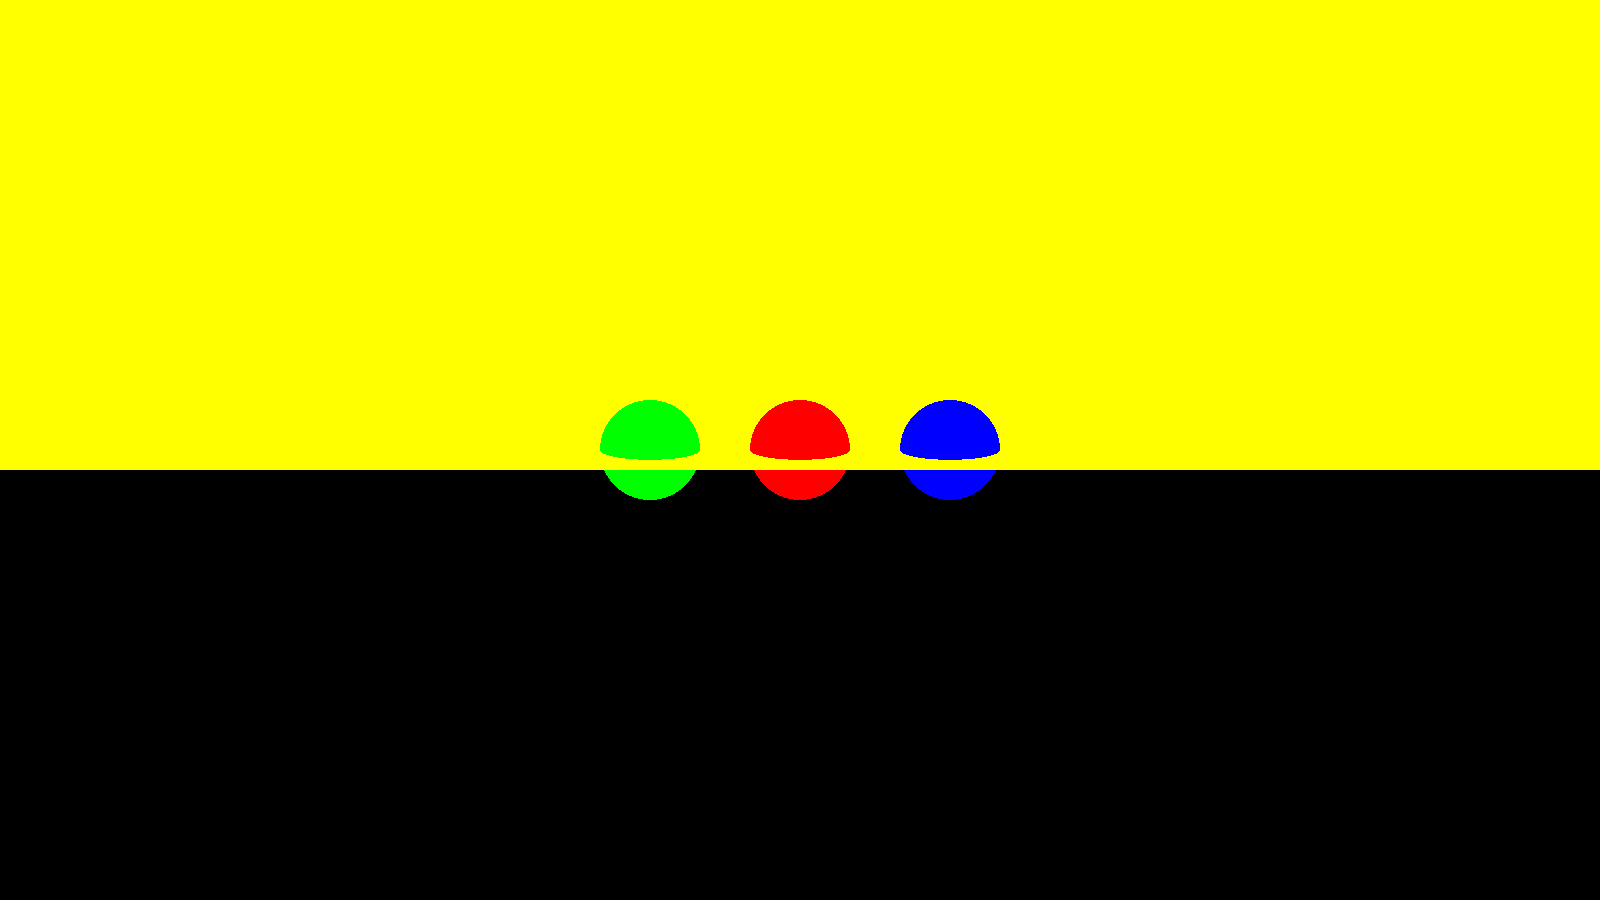
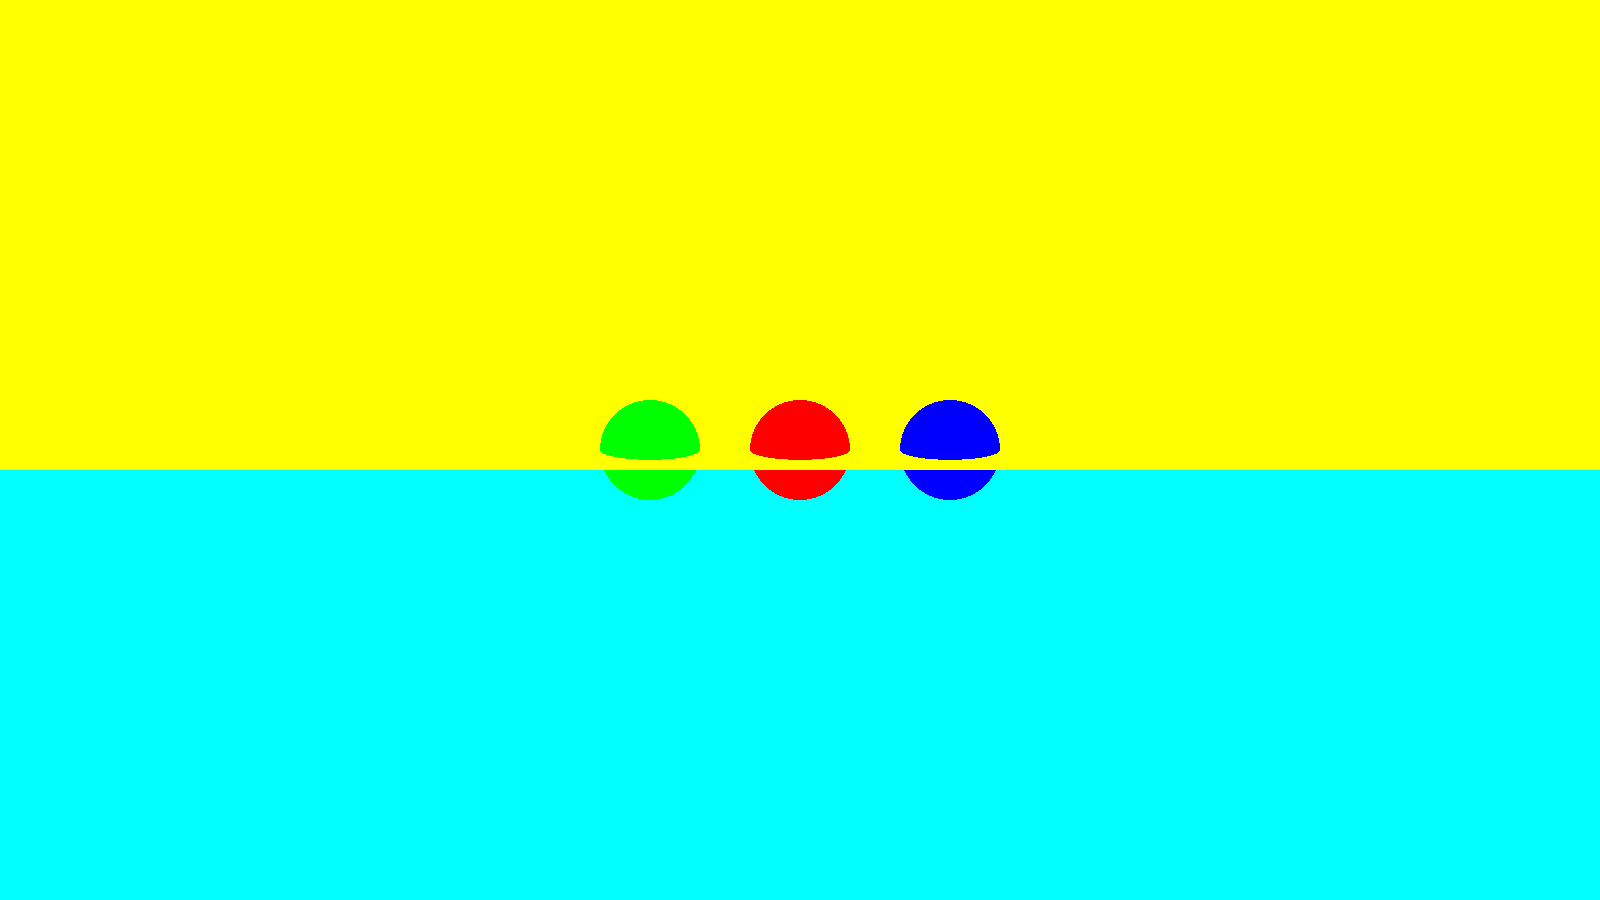
new changes to the files

diff --git a/src/com/palmoncodes/tracer/Driver.java b/src/com/palmoncodes/tracer/Driver.java
@@ -1,10 +1,9 @@
 package com.palmoncodes.tracer;
 
 import com.palmoncodes.scene.World;
-import com.palmoncodes.utility.Color;
 import com.palmoncodes.utility.Image;
 
-import sampling.RegularSample;
+import Projection.Projection;
 import sampling.Sampler;
 
 public class Driver {
@@ -13,46 +12,21 @@ public class Driver {
 	public static Image image;
 	public static Sampler sampler;
 	public static Tracer tracer;
+	public static Projection projection;
 
 	public static void main(String[] args) {
 
 		world = new World(1600, 900, 1.0);
 		image = new Image("image.png");
 		tracer = new Tracer();
-		sampler = new RegularSample(8);
-
-		int width = 1600;
-		int height = 900;
 
 		long start = System.nanoTime();
-
-//		BufferedImage buffer = new BufferedImage(width, height, BufferedImage.TYPE_INT_RGB);
-//
-//		Sphere sphere = new Sphere(new Point3D(0.0, 0.0, 0.0), 60.0, new Color(1.0F, 0.0F, 0.0F));
 
 		for (int y = 0; y < world.viewPlane.height; y++) {
 
 			for (int x = 0; x < world.viewPlane.width; x++) {
-				Color color = new Color(0.0F, 0.0F, 0.0F);
 
-				for (int row = 0; row < 8; row++) {
-					for (int col = 0; col < 8; col++) {
-
-//						Ray ray = new Ray(
-//								new Point3D(0.25 * (x - world.viewPlane.width / 2 + (col + random.nextFloat()) / 8),
-//										0.25 * (y - world.viewPlane.height / 2 + (row + random.nextFloat()) / 8), 70),
-//								new Vector3D(0.0, 0.0, -1.0));
-//
-//						if (sphere.hit(ray) != 0.0) {
-//							color.add(sphere.color);
-//						} else {
-//
-//						}
-
-						tracer.trace(x, y);
-					}
-				}
-
+				tracer.trace(x, y);
 			}
 		}
 

diff --git a/src/com/palmoncodes/tracer/Tracer.java b/src/com/palmoncodes/tracer/Tracer.java
@@ -1,7 +1,6 @@
 package com.palmoncodes.tracer;
 
 import com.palmoncodes.utility.Color;
-import com.palmoncodes.utility.Point2D;
 import com.palmoncodes.utility.Point3D;
 import com.palmoncodes.utility.Ray;
 import com.palmoncodes.utility.Vector3D;
@@ -10,17 +9,11 @@ public class Tracer {
 
 	public void trace(int x, int y) {
 
-		for (int row = 0; row < Driver.sampler.samples; row++) {
-			for (int col = 0; col < Driver.sampler.samples; col++) {
-				Point2D point = Driver.sampler.sample(row, col, x, y);
-
-				Ray ray = new Ray(new Point3D(Driver.world.viewPlane.size * (point.x),
-						Driver.world.viewPlane.size * (point.y), 100), new Vector3D(0.0, 0.0, -1.0));
-			}
-		}
-
 		double min = Double.MAX_VALUE;
-		Color color = new Color();
+		Color color = Driver.world.background;
+
+		Ray ray = new Ray(new Point3D(1.0 * (x - Driver.world.viewPlane.width / 2 + .5),
+				1.0 * (y - Driver.world.viewPlane.height / 2 + .5), 100), new Vector3D(0.0, 0.0, -1.0));
 
 		for (int i = 0; i < Driver.world.objects.size(); i++) {
 

diff --git a/src/Projection/Orthographic.java b/src/Projection/Orthographic.java
@@ -1,5 +1,24 @@
 package Projection;
 
-public class Orthographic {
+import com.palmoncodes.tracer.Driver;
+import com.palmoncodes.utility.Point2D;
+import com.palmoncodes.utility.Ray;
+
+public class Orthographic extends Projection {
+
+	public Ray createRay(Point2D point) {
+
+		Ray ray = new Ray();
+		ray.origin.x = Driver.world.viewPlane.size * point.x;
+		ray.origin.y = Driver.world.viewPlane.size * point.y;
+		ray.origin.z = 100;
+
+		ray.direction.x = 0.0;
+		ray.direction.y = 0.0;
+		ray.direction.z = -1.0;
+
+		return ray;
+
+	}
 
 }

diff --git a/src/com/palmoncodes/scene/World.java b/src/com/palmoncodes/scene/World.java
@@ -17,7 +17,7 @@ public class World {
 
 	public World(int width, int height, double size) {
 		viewPlane = new ViewPlane(width, height, size);
-		background = new Color(0.0F, 0.0F, 0.0F);
+		background = new Color(0.0F, 1.0F, 1.0F);
 
 		objects = new ArrayList<GeometryObject>();
 		objects.add(new Sphere(new Point3D(0.0, 0.0, 0.0), 50, new Color(1.0F, 0.0F, 0.0F)));

diff --git a/src/Projection/Projection.java b/src/Projection/Projection.java
@@ -1,5 +1,10 @@
 package Projection;
 
-public class Projection {
+import com.palmoncodes.utility.Point2D;
+import com.palmoncodes.utility.Ray;
+
+public abstract class Projection {
+
+	public abstract Ray createRay(Point2D point);
 
 }
